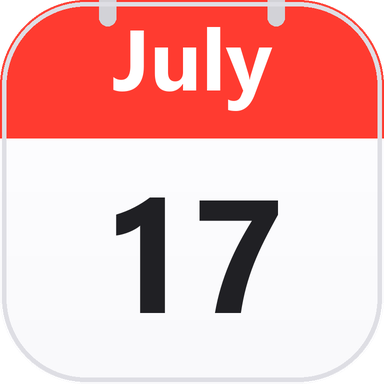
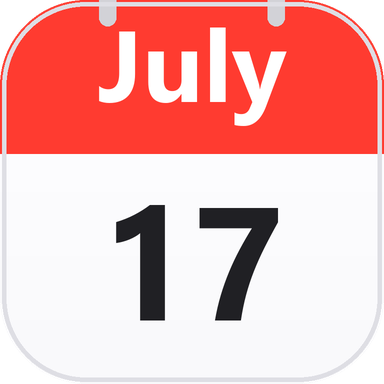
日历图标：红头再加高（36%→40%）、月份字号再+2px

diff --git a/tools/gen-calendar-icon.py b/tools/gen-calendar-icon.py
@@ -32,7 +32,7 @@ for y in range(SIZE):
 img.paste(body, (0, 0), card_mask)
 
 # 红色头部（约占 36% 高，通过卡片遮罩裁掉上缘外扩部分）
-header_h = int(SIZE * 0.36)
+header_h = int(SIZE * 0.40)
 header = Image.new("RGBA", (SIZE, SIZE), (0, 0, 0, 0))
 ImageDraw.Draw(header).rectangle([0, 0, SIZE - 1, header_h], fill=RED + (255,))
 band_mask = Image.new("L", (SIZE, SIZE), 0)
@@ -50,7 +50,7 @@ for cx in (int(SIZE * 0.28), int(SIZE * 0.72)):
                         radius=ring_w // 2, fill=(210, 210, 215, 255))
 
 # 头部月份：白色粗体，按宽度自适应
-mf = ImageFont.truetype(FONT, int(header_h * 0.62))
+mf = ImageFont.truetype(FONT, int(header_h * 0.66))
 while d.textbbox((0, 0), MONTH, font=mf)[2] > SIZE * 0.66:
     mf = ImageFont.truetype(FONT, mf.size - 8)
 l, t, r, b = d.textbbox((0, 0), MONTH, font=mf)
